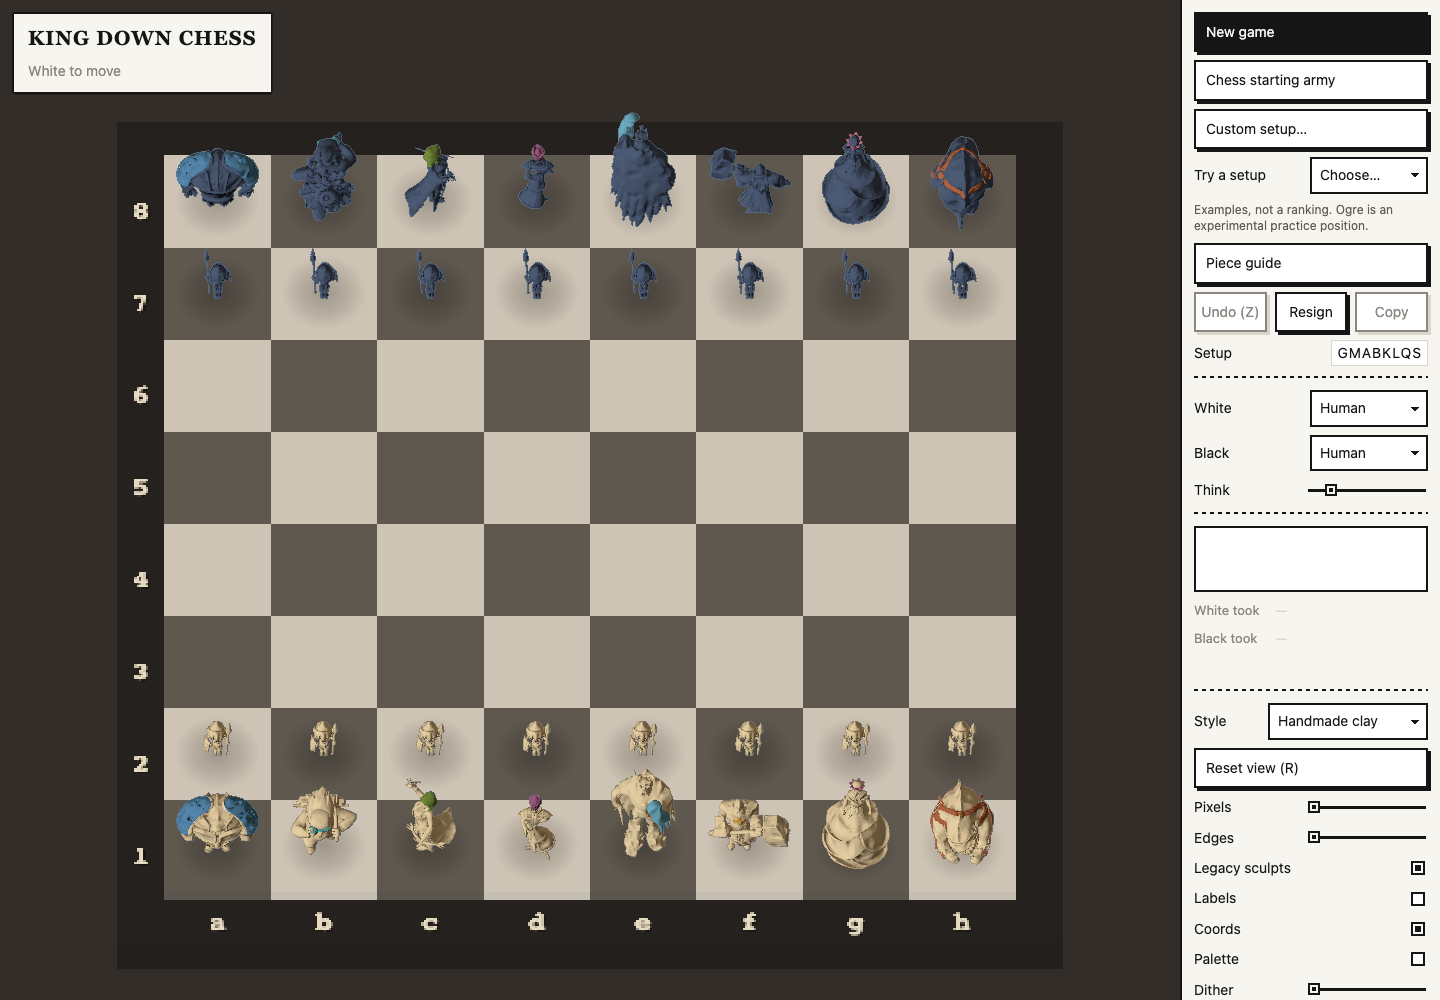
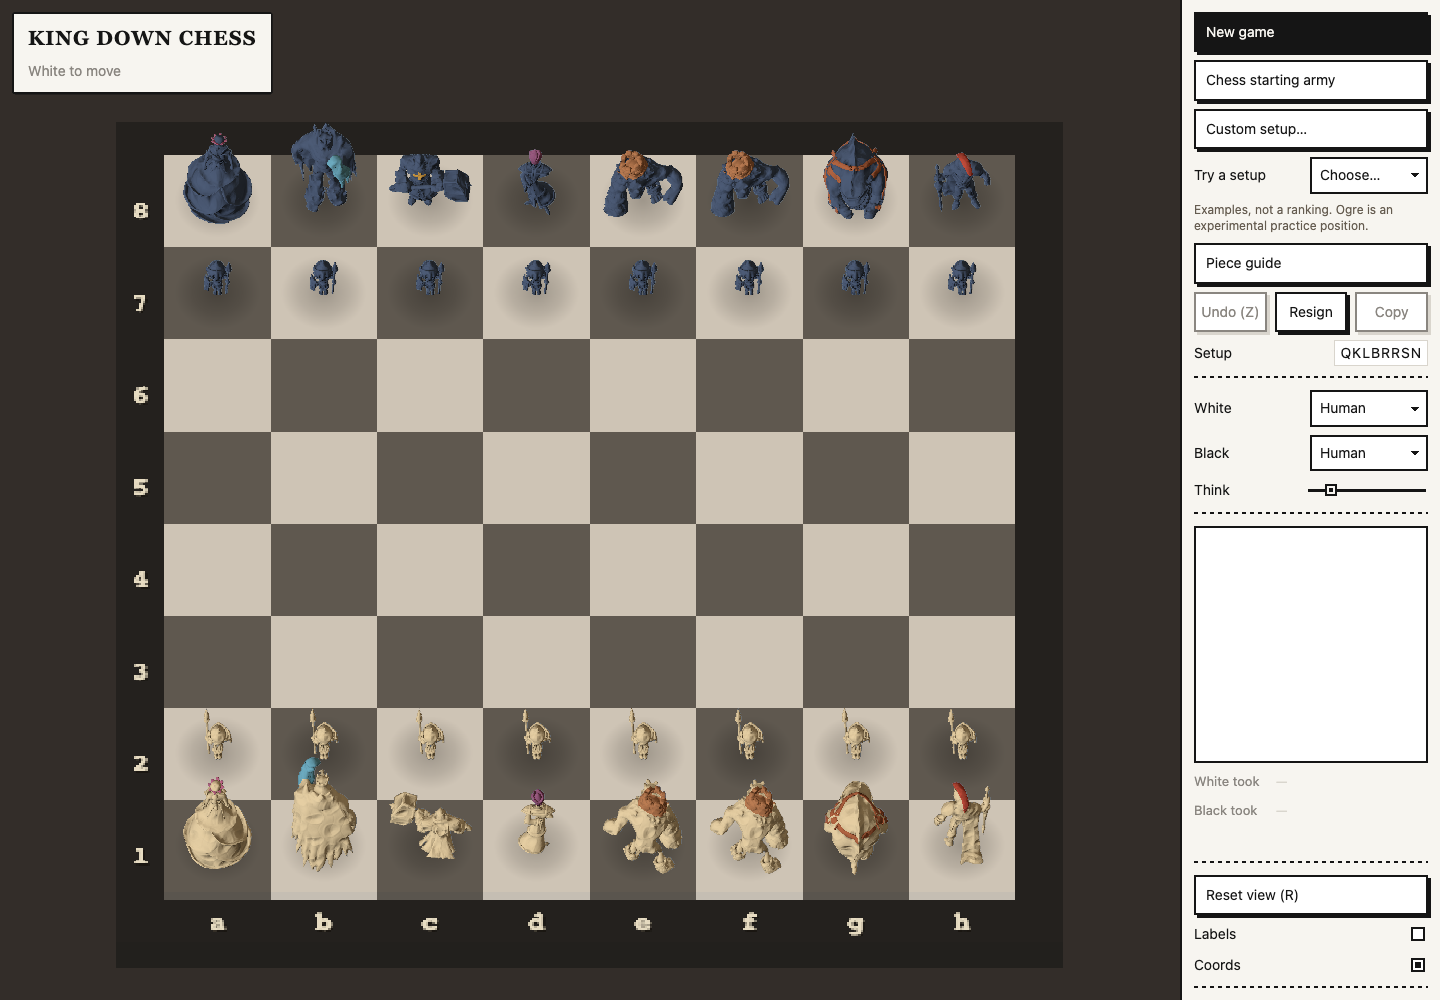
Fix army facing and lock handmade clay at double detail

diff --git a/src/main.ts b/src/main.ts
@@ -4,7 +4,7 @@ import { setEvaluator } from './ai/eval';
 import { positionKey } from './ai/search';
 import { BoardRenderer } from './render/renderer';
 import { STYLES } from './render/styles';
-import { loadModels, setUseSculpts } from './render/voxels';
+import { loadModels } from './render/voxels';
 import { A, S, Color, LETTERS, Move, NAMES, PieceType, RULES as GAME_RULES, RULES_2017, RULES_2021, SPENT, colorOf, findKing, kingLabel, KingChoice, PowerName, parseKings, setRules, sqName, typeOf, type Rules } from './rules/engine';
 import { CLASSIC_CHESS, POOL, fromFen, randomBackRank, toFen } from './rules/setup';
 
@@ -354,7 +354,7 @@ function copyFallback(text: string): void {
 }
 
 /* ---- autosave ---- */
-interface Save { back: string; fen: string; moves: string[]; white: Side; black: Side; think: number; style: string; coords: boolean; resigned: Color | null; rules?: Rules }
+interface Save { back: string; fen: string; moves: string[]; white: Side; black: Side; think: number; coords: boolean; resigned: Color | null; rules?: Rules }
 const SAVE_KEY = 'kingdown.save';
 
 function save(): void {
@@ -365,7 +365,6 @@ function save(): void {
       moves: game.history.map(h => h.lan),
       white: sides[0], black: sides[1],
       think: +$<HTMLInputElement>('think').value,
-      style: styleSel.value,
       coords: coords.checked,
       resigned,
       // The rules the game is playing, so opening the save without its URL replays the same game
@@ -406,38 +405,12 @@ $('setup-example').onchange = e => {
 };
 $('white').onchange = $('black').onchange = () => { sides[0] = $<HTMLSelectElement>('white').value as Side; sides[1] = $<HTMLSelectElement>('black').value as Side; orient(); save(); void maybeAi(); };
 $('think').onchange = save;
-$<HTMLInputElement>('pixel').oninput = e => view.setPixelSize(+(e.target as HTMLInputElement).value);
-const palette = () => view.setPalette($<HTMLInputElement>('palette').checked, +$<HTMLInputElement>('dither').value);
-$('palette').onchange = $<HTMLInputElement>('dither').oninput = palette;
-$<HTMLInputElement>('edges').oninput = e => { const v = +(e.target as HTMLInputElement).value; view.setEdges(v * 0.3, v); };
-$('sculpts').onchange = e => { setUseSculpts((e.target as HTMLInputElement).checked); view.rebuild(game.pos); };
-
-const styleSel = $<HTMLSelectElement>('style');
-styleSel.innerHTML = Object.entries(STYLES).map(([k, s]) => `<option value="${k}">${s.label}</option>`).join('');
-const DEFAULT_STYLE = Object.keys(STYLES)[0];
-styleSel.value = params.get('style') || DEFAULT_STYLE;
-if (!styleSel.value) styleSel.value = DEFAULT_STYLE;
 const labels = $<HTMLInputElement>('labels');
 labels.checked = params.get('labels') === '1';
 labels.onchange = () => view.setLabels(labels.checked);
 view.setLabels(labels.checked);
 const coords = $<HTMLInputElement>('coords');
 coords.onchange = () => { view.setCoords(coords.checked); save(); };
-/** `?px=1..6` pins the pixel size, overriding whatever the style preset asks for. */
-const pxOverride = Math.min(6, Math.max(0, Math.round(Number(params.get('px')) || 0)));
-/** Apply a preset and move the manual sliders to match; dragging them afterwards still overrides. */
-function applyStyle(): void {
-  const s = STYLES[styleSel.value];
-  view.applyStyle(s);
-  const px = pxOverride || s.pixelSize;
-  view.setPixelSize(px);
-  $<HTMLInputElement>('pixel').value = String(px);
-  $<HTMLInputElement>('edges').value = String(s.depthEdge);
-  $<HTMLInputElement>('palette').checked = s.palette;
-  $<HTMLInputElement>('dither').value = String(s.dither);
-  view.setCoords(coords.checked); // the user's choice outlives the preset's own coords flag
-}
-styleSel.onchange = () => { applyStyle(); save(); };
 $('reset-view').onclick = () => view.resetView();
 addEventListener('keydown', e => {
   if (e.key === 'Escape') { selected = null; pending = []; refresh(); return; }
@@ -446,12 +419,9 @@ addEventListener('keydown', e => {
   if (e.key === 'z') undo();
 });
 
-/** `?fen=` wins over the autosave; settings go in before applyStyle(), the game after the models load. */
+/** `?fen=` wins over the autosave; restore player settings before loading the game. */
 const saved = params.has('fen') ? null : readSave();
 if (saved) {
-  // An explicit `?style=` wins over the autosave, exactly as `?fen=` does: a shared style link must
-  // work for a returning visitor. Without the guard the saved style silently overrode the URL.
-  if (!params.has('style') && saved.style && STYLES[saved.style]) styleSel.value = saved.style;
   if (saved.white) $<HTMLSelectElement>('white').value = saved.white;
   if (saved.black) $<HTMLSelectElement>('black').value = saved.black;
   if (saved.think) $<HTMLInputElement>('think').value = String(saved.think);
@@ -461,7 +431,9 @@ if (saved) {
 }
 
 await loadModels();
-applyStyle();
+// The playable game has one art direction; study controls stay in the study.
+view.applyStyle(STYLES.clay);
+view.setCoords(coords.checked);
 const fen = params.get('fen');
 if (fen) { try { game.load(fromFen(fen)); } catch (e) { alert(`Bad fen: ${(e as Error).message}`); } }
 else if (saved) {

diff --git a/index.html b/index.html
@@ -48,15 +48,9 @@
         <div id="hover" class="hover"></div>
       </section>
       <section>
-        <label>Style <select id="style"></select></label>
         <button id="reset-view">Reset view (R)</button>
-        <label>Pixels <input id="pixel" type="range" min="1" max="6" step="1" value="2" /></label>
-        <label>Edges <input id="edges" type="range" min="0" max="1" step="0.05" value="0.35" /></label>
-        <label title="Only affects legacy voxel styles">Legacy sculpts <input id="sculpts" type="checkbox" checked /></label>
         <label>Labels <input id="labels" type="checkbox" /></label>
         <label>Coords <input id="coords" type="checkbox" checked /></label>
-        <label>Palette <input id="palette" type="checkbox" checked /></label>
-        <label>Dither <input id="dither" type="range" min="0" max="0.2" step="0.01" value="0.03" /></label>
       </section>
     </aside>
     <dialog id="rules">

diff --git a/src/render/renderer.ts b/src/render/renderer.ts
@@ -510,7 +510,8 @@ export class BoardRenderer {
     const kingDesign = { Frost: 'frost', Flame: 'ember', Stratus: 'celestial', Mud: 'gaya', Spirit: 'spirit', Shadow: 'shadow' }[king];
     const design = t === K ? `king-${kingDesign}` : CAST.find(entry => entry.code === t)?.key;
     if (design && ((this.style.pieces === 'clay' && (t !== O || this.options.ogreModel !== false)) || (t === O && this.options.ogreModel !== false))) {
-      if (c === 1) g.rotation.y = Math.PI;
+      // Clay sculpts face local +Z; White advances toward world -Z.
+      if (c === 0) g.rotation.y = Math.PI;
       top = 1.3 * (this.style.pieceScale ?? 1);
       g.userData.figureReady = ClayFigure.load(design, c, this.style.clayLook ?? 'handmade').then(figure => {
         if (g.parent !== this.world) { figure.dispose(); return; }

diff --git a/src/render/styles.ts b/src/render/styles.ts
@@ -37,10 +37,10 @@ export interface Style {
   coords?: boolean;
 }
 
-/** Keys double as the `?style=` URL parameter. The first entry is the default. */
+/** Shared renderer presets; the playable game always uses clay. Others serve the graphics study. */
 export const STYLES: Record<string, Style> = {
   clay: {
-    label: 'Handmade clay', pixelSize: 1, palette: false, dither: 0, normalEdge: 0, depthEdge: 0,
+    label: 'Handmade clay', pixelSize: 0.5, palette: false, dither: 0, normalEdge: 0, depthEdge: 0,
     shading: 'lambert', pieces: 'clay', clayLook: 'handmade', outline: false, pieceScale: .85,
     camera: { elev: 60, azim: 0 }, tiles: 'flat', lights: 'bright', shadow: true,
   },

diff --git a/src/style.css b/src/style.css
@@ -179,5 +179,3 @@ button:focus-visible, select:focus-visible, input:focus-visible {
 }
 
 #asset-status, #setup-note { font-size: 12px; color: #655c50; line-height: 1.4; }
-
-#style { width: 160px; }

diff --git a/docs/playable-clay/README.md b/docs/playable-clay/README.md
@@ -1,6 +1,6 @@
 # Playable clay edition — 2026-09-22
 
-Open the production preview at **http://127.0.0.1:5188/?style=clay**. Play against the computer or choose Human for both sides. Drag to orbit; scroll/pinch to zoom. The playable checkout is `/Users/za/.codex/worktrees/playable-clay/king down chess`, branch `codex/playable-clay`.
+Open the production preview at **http://127.0.0.1:5188/**. Play against the computer or choose Human for both sides. Drag to orbit; scroll/pinch to zoom. The playable checkout is `/Users/za/.codex/worktrees/playable-clay/king down chess`, branch `codex/playable-clay`.
 
 To restart locally: run `npm run build`, then `npm run preview -- --host 127.0.0.1 --port 5188` from this checkout. The built static app is in `dist/`. Serve it over HTTP; opening its HTML through `file://` cannot run the module/worker game correctly. No cloud service, model delegation or keys are needed to play.
 
@@ -16,17 +16,17 @@ The piece guide now matches the existing current rules: Archer can also shoot tw
 
 ## Graphics integration
 
-Based on graphics-session commit `af30711` from “Audit chess graphic engine”. All accepted model files remain byte-identical. The full standard cast now uses the board-detail rigged models in actual play, with alabaster/ink-blue armies, feature-specific accents, softened handmade surfaces, clay-layer relief and articulated walking. Polished clay is also available. The accepted Ogre retains its repaired sculpt and texture-defined cuff colours. Its shove gesture moves the displaced piece at the authored contact timing.
+Based on graphics-session commit `af30711` from “Audit chess graphic engine”. All accepted model files remain byte-identical. The full standard cast uses the board-detail rigged models in actual play, with alabaster/ink-blue armies, feature-specific accents, softened handmade surfaces, clay-layer relief and articulated walking. Per the owner's correction, the game is fixed to handmade clay at the study's **0.5 px · double detail** setting: the clay pass renders at twice the canvas width and height. Rendering controls and saved/URL style overrides are removed; camera, labels and coordinates remain available. The accepted Ogre retains its repaired sculpt and texture-defined cuff colours. Its shove gesture moves the displaced piece at the authored contact timing.
 
-The existing shared Ogre loader was generalized into `ClayFigure`; geometry/materials are shared, skeletons and mixers are per piece, and only needed models load. Piece contours use the study's tested skin/morph-aware pass. Uniform board sizing preserves model proportions while fitting the playable squares. Knights retain their leap; walking, capturing, undo, new-game reset and style changes preserve the game state.
+The existing shared Ogre loader was generalized into `ClayFigure`; geometry/materials are shared, skeletons and mixers are per piece, and only needed models load. Piece contours use the study's tested skin/morph-aware pass. Uniform board sizing preserves model proportions while fitting the playable squares. Both armies face toward the opposing side at rest (White toward world −Z, Black toward +Z); travel/contact facing is temporary and resets after movement and undo. Knights retain their leap; walking, capturing, undo and new-game reset preserve the game state.
 
 Two integration issues were caught during browser verification: invisible letter sprites intercepted clicks on pawns (Three.js raycasts invisible sprites), and the desktop HUD covered the mobile back rank. Picking now excludes invisible hits; the mobile header has its own row above the board. The existing lightweight capture debris remains the game effect. The five elaborate capture sequences remain standalone study previews; their synchronous fragment construction is not put on the gameplay path. Physical-phone/older-device frame rates remain unmeasured.
 
 ## Verification
 
-- `npm test`: **210/210 tests, seven files**; includes the five imported search regressions. `engine-tests.log`.
+- `npm test`: **210/210 tests, seven files** from the playable integration; includes the five imported search regressions. `engine-tests.log`. The subsequent facing/presentation correction does not touch rules or search code; it was verified by build and browser checks below.
 - `npm run build`: passes TypeScript and production bundling. Vite retains a non-failing large-chunk notice. `build.log`.
-- `node tools/verify-playable-clay.mjs`: **13 browser checks pass** against the production preview, zero page/console errors. Includes real clicks on every initial pawn-square centre, knight leap, human/computer play, save/reload, optional setup, both clay materials, current rule text, capture/undo, Ogre shove and mid-animation undo, new-game recovery and 390×844 mobile layout. `browser-checks.json`.
+- `node tools/verify-playable-clay.mjs`: **15 browser checks pass** against the production preview, zero page/console errors. Includes opponent-facing armies after movement/undo, fixed handmade material and 0.5 px render targets, absent rendering controls, ignored legacy saved/URL style preferences, real clicks on every initial pawn-square centre, knight leap, human/computer play, save/reload, optional setup, current rule text, capture/undo, Ogre shove and mid-animation undo, new-game recovery and 390×844 mobile layout. `browser-checks.json`.
 - Desktop and mobile screenshots were inspected: `desktop.png`, `mobile.png`. The header does not cover the mobile board. These are software checks, not participant play-test feedback.
 
 Research findings remain in the main project's `docs/research/direct-campaign-2026-09-22.md`. No research queue or delegation was restarted. This playable branch combines the accepted graphics and search repair without merging the separate experimental campaign into the owner's main checkout.

diff --git a/LESSONS.md b/LESSONS.md
@@ -255,3 +255,7 @@ rebuilds an experiment page from the JSONL without playing a game: `killerMove` 
 ## Playable clay picking and layout — 2026-09-22
 - Three.js raycasts invisible label sprites. A hidden letter chip above a king/queen intercepted the pawn square even after the sculpt fitted the square; skip invisible ray hits and test all eight initial pawn-square centres with real pointer input. Reducing the visible model alone did not repair the interaction.
 - A responsive canvas inside CSS grid needs an explicit `minmax(0, 1fr)` column and `min-width: 0`; otherwise resizing from a wide viewport can preserve an oversized intrinsic canvas column. Keep the mobile HUD above the board, and verify both resize and actual element bounds, not just document overflow.
+
+## Clay facing and fixed presentation — 2026-09-22
+- The accepted clay sculpts face local +Z. White advances toward world −Z, so its resting parent rotates by π; Black's stays at zero. Do not reuse the legacy voxel orientation. Movement/contact turns are relative to that parent and must reset after movement and undo. Check both armies visually as well as their transforms.
+- The owner selected handmade clay at the study's 0.5 px double-detail setting for the playable game, with no rendering choices. Remove obsolete UI and URL/save overrides instead of merely changing the default; keep experimental presentation controls in the separate graphics study. Verify actual render-target dimensions and material state, not just a preset label.

diff --git a/TASKS.md b/TASKS.md
@@ -1,5 +1,11 @@
 # Tasks
 
+## Fixed handmade-clay presentation — 2026-09-22
+- Owner correction: armies must face one another; use handmade clay at the study's 0.5 px double-detail rendering, without player rendering choices.
+- Plan: correct the clay models' resting orientation; pin the playable style/fidelity and remove rendering controls plus URL/save overrides. Preserve gameplay and the separate graphics study.
+- Verify: production build and browser checks for both armies, movement/undo, ignored old preferences, fixed material/render-target resolution and mobile layout; inspect screenshots.
+- [x] Corrected clay rest facing and fixed the game to handmade clay at 0.5 px. Removed rendering controls and legacy style/pixel overrides. TypeScript/build and all 15 production-browser checks pass with zero errors; desktop/mobile screenshots inspected. Refreshed the owner's game tab and confirmed its four saved moves survived. Evidence: `docs/playable-clay/README.md`.
+
 ## Playable clay integration — 2026-09-22
 - Owner requests a playable game combining the accepted graphics session with the completed research. Preserve current rules and pool: findings do not justify new defaults; Guard/arrangement studies were not run.
 - Plan: isolated `codex/playable-clay` checkout based on graphics `af30711`; integrate tested search repair; connect the accepted complete clay cast/materials/walking to the playable board; correct stale piece guidance and expose clearly labelled optional setup examples.
